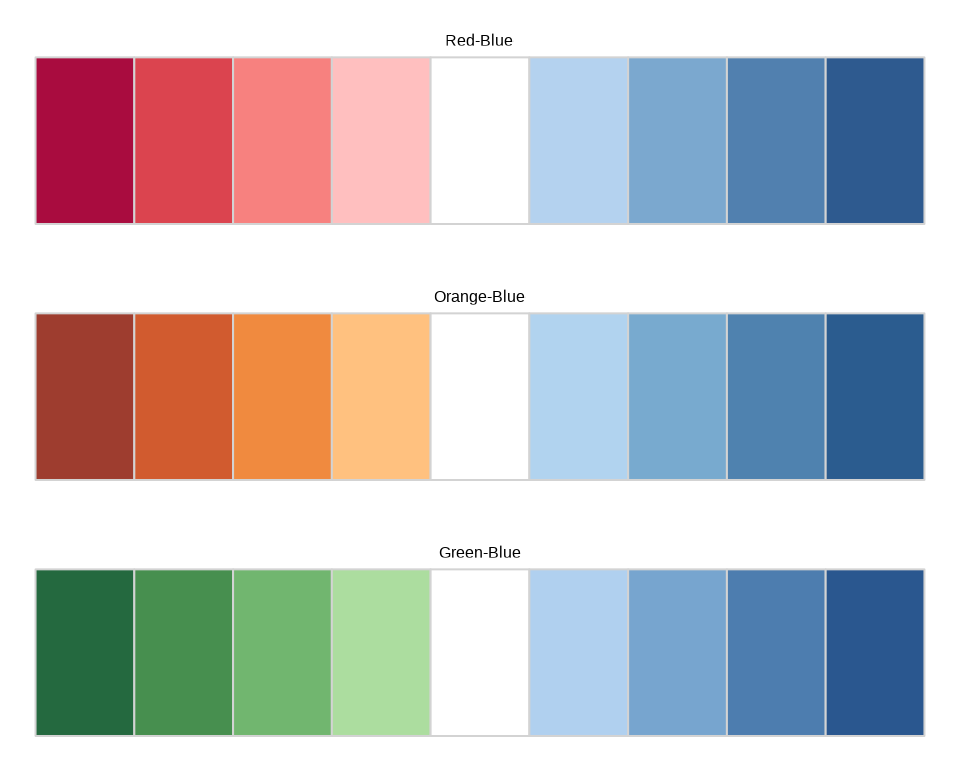
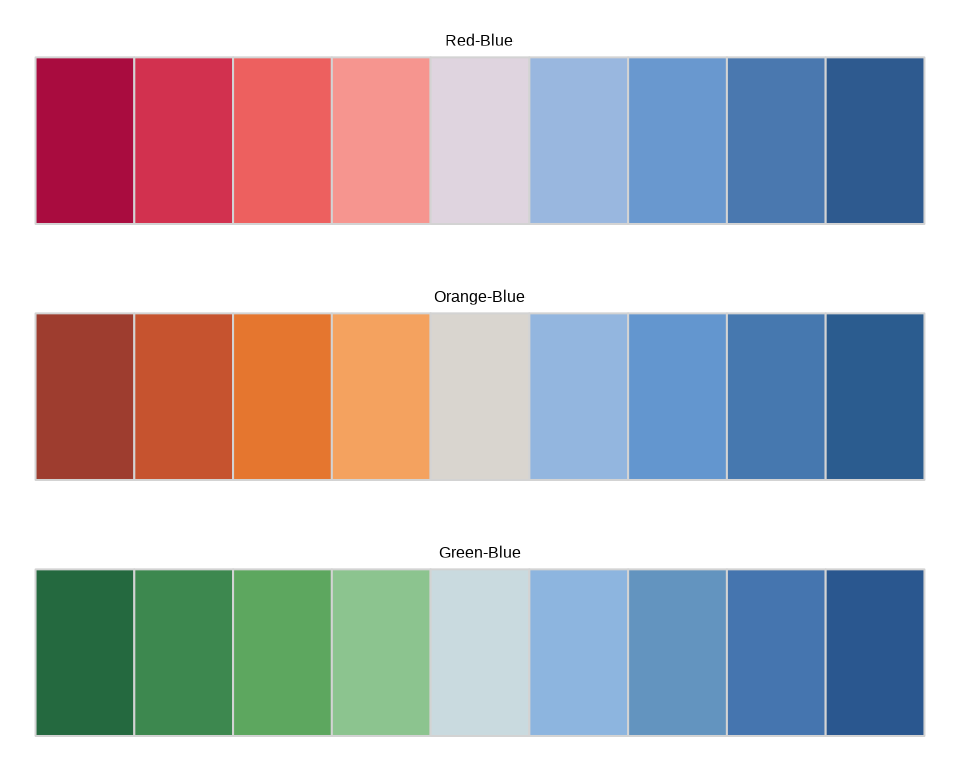
Deploying to gh-pages from @ ipeadata-lab/ipeaplot@d93a55c46ddd7f22966a551ec81cd9d7e5d5897c 🚀

Changed region(s): [[0.2188, 0.0625, 0.6562, 0.3125], [0.3438, 0.7188, 0.6562, 0.9688], [0.3438, 0.4062, 0.6562, 0.625]]

diff --git a/articles/cookbook.html b/articles/cookbook.html
@@ -71,7 +71,7 @@
   <main id="main" class="col-md-9"><div class="page-header">
       <img src="" class="logo" alt=""><h1>Cookbook ipeaplot</h1>
             
-            <h4 data-toc-skip class="date">2023-12-04</h4>
+            <h4 data-toc-skip class="date">2024-03-05</h4>
       
       <small class="dont-index">Source: <a href="https://github.com/ipeadata-lab/ipeaplot/blob/HEAD/vignettes/cookbook.Rmd" class="external-link"><code>vignettes/cookbook.Rmd</code></a></small>
       <div class="d-none name"><code>cookbook.Rmd</code></div>
@@ -102,7 +102,7 @@ Ipea.</p>
 <span><span class="kw"><a href="https://rdrr.io/r/base/library.html" class="external-link">library</a></span><span class="op">(</span><span class="va"><a href="https://ggplot2.tidyverse.org" class="external-link">ggplot2</a></span><span class="op">)</span></span>
 <span><span class="kw"><a href="https://rdrr.io/r/base/library.html" class="external-link">library</a></span><span class="op">(</span><span class="va"><a href="https://dplyr.tidyverse.org" class="external-link">dplyr</a></span><span class="op">)</span></span>
 <span><span class="kw"><a href="https://rdrr.io/r/base/library.html" class="external-link">library</a></span><span class="op">(</span><span class="va"><a href="https://abjur.github.io/abjData/" class="external-link">abjData</a></span><span class="op">)</span></span>
-<span><span class="kw"><a href="https://rdrr.io/r/base/library.html" class="external-link">library</a></span><span class="op">(</span><span class="va"><a href="https://github.com/ipeaGIT/geobr" class="external-link">geobr</a></span><span class="op">)</span></span>
+<span><span class="kw"><a href="https://rdrr.io/r/base/library.html" class="external-link">library</a></span><span class="op">(</span><span class="va"><a href="https://ipeagit.github.io/geobr/" class="external-link">geobr</a></span><span class="op">)</span></span>
 <span><span class="kw"><a href="https://rdrr.io/r/base/library.html" class="external-link">library</a></span><span class="op">(</span><span class="va"><a href="http://had.co.nz/reshape" class="external-link">reshape</a></span><span class="op">)</span></span>
 <span><span class="kw"><a href="https://rdrr.io/r/base/library.html" class="external-link">library</a></span><span class="op">(</span><span class="va"><a href="https://yihui.org/knitr/" class="external-link">knitr</a></span><span class="op">)</span></span></code></pre></div>
 <div class="sourceCode" id="cb2"><pre class="downlit sourceCode r">
@@ -196,11 +196,11 @@ Ipea.</p>
 <span></span>
 <span><span class="co">## Gráfico 8</span></span>
 <span><span class="va">link</span> <span class="op">&lt;-</span> <span class="st">'https://github.com/ipeadata-lab/ipeaplot/files'</span></span>
-<span><span class="va">base_graf8</span> <span class="op">&lt;-</span> <span class="fu">data.table</span><span class="fu">::</span><span class="fu"><a href="https://Rdatatable.gitlab.io/data.table/reference/fread.html" class="external-link">fread</a></span><span class="op">(</span><span class="fu"><a href="https://rdrr.io/r/base/paste.html" class="external-link">paste0</a></span><span class="op">(</span><span class="va">link</span>,<span class="st">'/12239277/dados_grafico9.csv'</span><span class="op">)</span>,</span>
+<span><span class="va">base_graf8</span> <span class="op">&lt;-</span> <span class="fu">data.table</span><span class="fu">::</span><span class="fu"><a href="https://rdatatable.gitlab.io/data.table/reference/fread.html" class="external-link">fread</a></span><span class="op">(</span><span class="fu"><a href="https://rdrr.io/r/base/paste.html" class="external-link">paste0</a></span><span class="op">(</span><span class="va">link</span>,<span class="st">'/12239277/dados_grafico9.csv'</span><span class="op">)</span>,</span>
 <span>                                dec <span class="op">=</span> <span class="st">","</span>, encoding <span class="op">=</span> <span class="st">'Latin-1'</span><span class="op">)</span></span>
 <span></span>
 <span><span class="co">## Gráfico 9</span></span>
-<span><span class="va">base_graf9</span> <span class="op">&lt;-</span> <span class="fu">data.table</span><span class="fu">::</span><span class="fu"><a href="https://Rdatatable.gitlab.io/data.table/reference/fread.html" class="external-link">fread</a></span><span class="op">(</span><span class="fu"><a href="https://rdrr.io/r/base/paste.html" class="external-link">paste0</a></span><span class="op">(</span><span class="va">link</span>,<span class="st">'/12239278/dados_grafico10.csv'</span><span class="op">)</span>,</span>
+<span><span class="va">base_graf9</span> <span class="op">&lt;-</span> <span class="fu">data.table</span><span class="fu">::</span><span class="fu"><a href="https://rdatatable.gitlab.io/data.table/reference/fread.html" class="external-link">fread</a></span><span class="op">(</span><span class="fu"><a href="https://rdrr.io/r/base/paste.html" class="external-link">paste0</a></span><span class="op">(</span><span class="va">link</span>,<span class="st">'/12239278/dados_grafico10.csv'</span><span class="op">)</span>,</span>
 <span>                                 dec <span class="op">=</span> <span class="st">","</span>, encoding <span class="op">=</span> <span class="st">'Latin-1'</span><span class="op">)</span></span>
 <span></span>
 <span><span class="co">## Salvando graficos no formato Rdata</span></span>
@@ -287,7 +287,7 @@ Ipea.</p>
 <span>       title<span class="op">=</span><span class="st">"GRÁFICO 3"</span>,</span>
 <span>       subtitle<span class="op">=</span><span class="st">"Gastos com defesa (Em bilhões de dólares)"</span>,</span>
 <span>       caption <span class="op">=</span> <span class="st">'Fonte: Peter G. Peterson Foundation (2013).\nTradução dos autores.'</span><span class="op">)</span> <span class="op">+</span></span>
-<span>  <span class="fu"><a href="../reference/scale_fill_ipea.html">scale_fill_ipea</a></span><span class="op">(</span>discrete <span class="op">=</span> <span class="cn">T</span><span class="op">)</span> <span class="op">+</span></span>
+<span>  <span class="fu"><a href="../reference/scale_fill_ipea.html">scale_fill_ipea</a></span><span class="op">(</span><span class="op">)</span> <span class="op">+</span></span>
 <span>  <span class="fu"><a href="https://ggplot2.tidyverse.org/reference/geom_text.html" class="external-link">geom_text</a></span><span class="op">(</span> position <span class="op">=</span> <span class="fu"><a href="https://ggplot2.tidyverse.org/reference/position_stack.html" class="external-link">position_stack</a></span><span class="op">(</span>vjust <span class="op">=</span> <span class="fl">0.5</span><span class="op">)</span>, color <span class="op">=</span> <span class="st">'white'</span><span class="op">)</span> <span class="op">+</span></span>
 <span>  <span class="fu"><a href="https://ggplot2.tidyverse.org/reference/geom_text.html" class="external-link">geom_text</a></span><span class="op">(</span>data <span class="op">=</span> <span class="va">temp</span>, <span class="fu"><a href="https://ggplot2.tidyverse.org/reference/aes.html" class="external-link">aes</a></span><span class="op">(</span>y <span class="op">=</span> <span class="va">total</span> ,label <span class="op">=</span> <span class="fu"><a href="https://rdrr.io/r/base/paste.html" class="external-link">paste0</a></span><span class="op">(</span><span class="st">"U$ "</span>,<span class="va">total</span><span class="op">)</span><span class="op">)</span>, vjust <span class="op">=</span> <span class="op">-</span><span class="fl">.5</span><span class="op">)</span> <span class="op">+</span></span>
 <span>  <span class="fu"><a href="../reference/theme_ipea.html">theme_ipea</a></span><span class="op">(</span>legend.position<span class="op">=</span><span class="st">"none"</span>,</span>
@@ -343,7 +343,7 @@ Ipea.</p>
 <span>       caption <span class="op">=</span> <span class="st">'Fonte: World Bank (2014).\nTradução dos autores.\nObs.: Os dados foram coletados no sítio do Banco Mundial.\nDisponível em: &lt;http://goo.gl/IvtZ1a&gt;. Acesso em: 26 set. 2014.'</span><span class="op">)</span> <span class="op">+</span></span>
 <span>  <span class="fu"><a href="../reference/theme_ipea.html">theme_ipea</a></span><span class="op">(</span>x_breaks <span class="op">=</span> <span class="fl">8</span>, y_breaks <span class="op">=</span> <span class="fl">10</span>, legend.position <span class="op">=</span> <span class="st">'bottom'</span>, expand_x_limit <span class="op">=</span> <span class="cn">F</span>,</span>
 <span>             include_x_text_title <span class="op">=</span> <span class="cn">F</span>,include_y_text_title <span class="op">=</span> <span class="cn">F</span><span class="op">)</span> <span class="op">+</span></span>
-<span>  <span class="fu"><a href="../reference/scale_color_ipea.html">scale_color_ipea</a></span><span class="op">(</span>palette_direction <span class="op">=</span> <span class="op">-</span><span class="fl">1</span>, discrete <span class="op">=</span> <span class="cn">T</span><span class="op">)</span> <span class="op">+</span></span>
+<span>  <span class="fu"><a href="../reference/scale_color_ipea.html">scale_color_ipea</a></span><span class="op">(</span>palette_direction <span class="op">=</span> <span class="op">-</span><span class="fl">1</span>, <span class="op">)</span> <span class="op">+</span></span>
 <span>  <span class="fu"><a href="https://ggplot2.tidyverse.org/reference/scale_manual.html" class="external-link">scale_shape_manual</a></span><span class="op">(</span>values <span class="op">=</span> <span class="fu"><a href="https://rdrr.io/r/base/c.html" class="external-link">c</a></span><span class="op">(</span><span class="fl">19</span>, <span class="fl">21</span><span class="op">)</span><span class="op">)</span> <span class="op">+</span></span>
 <span>  <span class="fu"><a href="https://ggplot2.tidyverse.org/reference/scale_manual.html" class="external-link">scale_fill_manual</a></span><span class="op">(</span>values <span class="op">=</span> <span class="fu"><a href="https://rdrr.io/r/base/c.html" class="external-link">c</a></span><span class="op">(</span><span class="cn">NA</span>,<span class="st">"white"</span><span class="op">)</span><span class="op">)</span></span></code></pre></div>
 <p><img src="prints_ipeaplot/grafico5.png" width="100%" style="display: block; margin: auto;"></p>
@@ -399,7 +399,7 @@ Ipea.</p>
 <span>       caption <span class="op">=</span> <span class="st">''</span><span class="op">)</span> <span class="op">+</span></span>
 <span>  <span class="fu"><a href="../reference/theme_ipea.html">theme_ipea</a></span><span class="op">(</span>legend.position <span class="op">=</span> <span class="st">'bottom'</span>,</span>
 <span>             include_x_text_title <span class="op">=</span> <span class="cn">F</span>,include_y_text_title <span class="op">=</span> <span class="cn">F</span><span class="op">)</span> <span class="op">+</span></span>
-<span>  <span class="fu"><a href="../reference/scale_fill_ipea.html">scale_fill_ipea</a></span><span class="op">(</span>discrete <span class="op">=</span> <span class="cn">T</span><span class="op">)</span></span></code></pre></div>
+<span>  <span class="fu"><a href="../reference/scale_fill_ipea.html">scale_fill_ipea</a></span><span class="op">(</span><span class="op">)</span></span></code></pre></div>
 <p><img src="prints_ipeaplot/grafico7.png" width="100%" style="display: block; margin: auto;"></p>
 </div>
 </div>
@@ -438,7 +438,7 @@ Ipea.</p>
 <span>  <span class="fu"><a href="https://ggplot2.tidyverse.org/reference/geom_path.html" class="external-link">geom_line</a></span><span class="op">(</span>data<span class="op">=</span><span class="va">base_graf8_aux</span>, <span class="fu"><a href="https://ggplot2.tidyverse.org/reference/aes.html" class="external-link">aes</a></span><span class="op">(</span>x<span class="op">=</span><span class="va">n</span> ,y<span class="op">=</span><span class="va">`crescimento do PIB (ppc)_perct`</span>, group <span class="op">=</span> <span class="fl">1</span><span class="op">)</span>,</span>
 <span>            color <span class="op">=</span> <span class="st">'gray'</span><span class="op">)</span> <span class="op">+</span></span>
 <span>  <span class="fu"><a href="https://ggplot2.tidyverse.org/reference/scale_continuous.html" class="external-link">scale_x_continuous</a></span><span class="op">(</span>breaks <span class="op">=</span> <span class="fl">1</span><span class="op">:</span><span class="fu"><a href="https://rdrr.io/r/base/Extremes.html" class="external-link">max</a></span><span class="op">(</span><span class="va">base_graf8</span><span class="op">$</span><span class="va">n</span><span class="op">)</span>, labels <span class="op">=</span> <span class="va">label</span><span class="op">)</span> <span class="op">+</span></span>
-<span>  <span class="fu"><a href="../reference/scale_fill_ipea.html">scale_fill_ipea</a></span><span class="op">(</span>discrete <span class="op">=</span> <span class="cn">T</span><span class="op">)</span> <span class="op">+</span></span>
+<span>  <span class="fu"><a href="../reference/scale_fill_ipea.html">scale_fill_ipea</a></span><span class="op">(</span><span class="op">)</span> <span class="op">+</span></span>
 <span>  <span class="fu"><a href="../reference/theme_ipea.html">theme_ipea</a></span><span class="op">(</span>legend.position <span class="op">=</span> <span class="st">'bottom'</span>, x_text_angle <span class="op">=</span> <span class="fl">90</span>, include_ticks <span class="op">=</span> <span class="cn">F</span>,</span>
 <span>             include_x_text_title <span class="op">=</span> <span class="cn">F</span>,include_y_text_title <span class="op">=</span> <span class="cn">F</span><span class="op">)</span> <span class="op">+</span></span>
 <span>  <span class="fu"><a href="https://ggplot2.tidyverse.org/reference/geom_rug.html" class="external-link">geom_rug</a></span><span class="op">(</span>data<span class="op">=</span><span class="va">base_graf8</span>, <span class="fu"><a href="https://ggplot2.tidyverse.org/reference/aes.html" class="external-link">aes</a></span><span class="op">(</span>x <span class="op">=</span> <span class="va">n</span><span class="op">-</span><span class="fl">0.5</span><span class="op">)</span>,</span>

diff --git a/articles/intro_ipeaplot.html b/articles/intro_ipeaplot.html
@@ -71,7 +71,7 @@
   <main id="main" class="col-md-9"><div class="page-header">
       <img src="" class="logo" alt=""><h1>Introdução ao ipeaplot</h1>
             
-            <h4 data-toc-skip class="date">2023-12-04</h4>
+            <h4 data-toc-skip class="date">2024-03-05</h4>
       
       <small class="dont-index">Source: <a href="https://github.com/ipeadata-lab/ipeaplot/blob/HEAD/vignettes/intro_ipeaplot.Rmd" class="external-link"><code>vignettes/intro_ipeaplot.Rmd</code></a></small>
       <div class="d-none name"><code>intro_ipeaplot.Rmd</code></div>
@@ -130,7 +130,7 @@ seguir, vamos utilizar os dados <code>mtcars</code> do R.</p>
 <span><span class="kw"><a href="https://rdrr.io/r/base/library.html" class="external-link">library</a></span><span class="op">(</span><span class="va"><a href="https://ggplot2.tidyverse.org" class="external-link">ggplot2</a></span><span class="op">)</span></span>
 <span><span class="kw"><a href="https://rdrr.io/r/base/library.html" class="external-link">library</a></span><span class="op">(</span><span class="va"><a href="https://dplyr.tidyverse.org" class="external-link">dplyr</a></span><span class="op">)</span></span>
 <span><span class="kw"><a href="https://rdrr.io/r/base/library.html" class="external-link">library</a></span><span class="op">(</span><span class="va"><a href="https://abjur.github.io/abjData/" class="external-link">abjData</a></span><span class="op">)</span></span>
-<span><span class="kw"><a href="https://rdrr.io/r/base/library.html" class="external-link">library</a></span><span class="op">(</span><span class="va"><a href="https://github.com/ipeaGIT/geobr" class="external-link">geobr</a></span><span class="op">)</span></span>
+<span><span class="kw"><a href="https://rdrr.io/r/base/library.html" class="external-link">library</a></span><span class="op">(</span><span class="va"><a href="https://ipeagit.github.io/geobr/" class="external-link">geobr</a></span><span class="op">)</span></span>
 <span><span class="kw"><a href="https://rdrr.io/r/base/library.html" class="external-link">library</a></span><span class="op">(</span><span class="va"><a href="https://patchwork.data-imaginist.com" class="external-link">patchwork</a></span><span class="op">)</span></span>
 <span></span>
 <span><span class="co"># Load mtcars dataset</span></span>
@@ -188,15 +188,14 @@ construção da sua figura com <code>ggplot2</code>:</p>
 <p>Por padrão, as funções <code><a href="../reference/scale_color_ipea.html">scale_color_ipea()</a></code> e
 <code><a href="../reference/scale_fill_ipea.html">scale_fill_ipea()</a></code> geram escalas de cores para variáveis
 <strong>contínuas</strong>. Para utilizar uma escala de core para
-variáveis discretas, basta passar o parâmetro
-<code>discrete = TRUE</code>.</p>
+variáveis discretas, basta passar o parâmetro <code>RUE</code>.</p>
 <div class="sourceCode" id="cb6"><pre class="downlit sourceCode r">
 <code class="sourceCode R"><span><span class="va">graph</span> <span class="op">&lt;-</span> <span class="fu"><a href="https://ggplot2.tidyverse.org/reference/ggplot.html" class="external-link">ggplot</a></span><span class="op">(</span><span class="op">)</span> <span class="op">+</span></span>
 <span>  <span class="fu"><a href="https://ggplot2.tidyverse.org/reference/geom_point.html" class="external-link">geom_point</a></span><span class="op">(</span>data <span class="op">=</span> <span class="va">mtcars</span>, <span class="fu"><a href="https://ggplot2.tidyverse.org/reference/aes.html" class="external-link">aes</a></span><span class="op">(</span>x <span class="op">=</span> <span class="va">hp</span> , y <span class="op">=</span> <span class="va">mpg</span>, color <span class="op">=</span> <span class="fu"><a href="https://rdrr.io/r/base/factor.html" class="external-link">factor</a></span><span class="op">(</span><span class="va">cyl</span><span class="op">)</span><span class="op">)</span><span class="op">)</span> <span class="op">+</span></span>
 <span>  <span class="fu"><a href="https://ggplot2.tidyverse.org/reference/labs.html" class="external-link">labs</a></span><span class="op">(</span>y<span class="op">=</span><span class="st">'Consumo de Combustível\n(milhas por galão)'</span>,</span>
 <span>       x <span class="op">=</span><span class="st">'Potência (Número de cavalos)'</span>,</span>
 <span>       color<span class="op">=</span><span class="st">'Cilindradas'</span><span class="op">)</span> <span class="op">+</span></span>
-<span>  <span class="fu"><a href="../reference/scale_color_ipea.html">scale_color_ipea</a></span><span class="op">(</span>palette <span class="op">=</span> <span class="st">"Orange"</span>, discrete <span class="op">=</span> <span class="cn">TRUE</span> <span class="op">)</span> <span class="op">+</span></span>
+<span>  <span class="fu"><a href="../reference/scale_color_ipea.html">scale_color_ipea</a></span><span class="op">(</span>palette <span class="op">=</span> <span class="st">"Orange"</span>, <span class="va">RUE</span> <span class="op">)</span> <span class="op">+</span></span>
 <span>  <span class="fu"><a href="../reference/theme_ipea.html">theme_ipea</a></span><span class="op">(</span><span class="op">)</span></span></code></pre></div>
 <p><img src="prints_intro_ipeaplot/grafico4.png" width="100%" style="display: block; margin: auto;"></p>
 <p>Além de selecionar a paleta de cores, as funções
@@ -245,7 +244,7 @@ em cada região do país a cada anos, e em seguida geramos o gráfico:</p>
 <span><span class="co"># plot</span></span>
 <span><span class="fu"><a href="https://ggplot2.tidyverse.org/reference/ggplot.html" class="external-link">ggplot</a></span><span class="op">(</span><span class="op">)</span> <span class="op">+</span></span>
 <span>  <span class="fu"><a href="https://ggplot2.tidyverse.org/reference/geom_path.html" class="external-link">geom_line</a></span><span class="op">(</span>data <span class="op">=</span> <span class="va">df_fig1</span>, <span class="fu"><a href="https://ggplot2.tidyverse.org/reference/aes.html" class="external-link">aes</a></span><span class="op">(</span>x<span class="op">=</span><span class="va">ano</span>, y<span class="op">=</span><span class="va">t_lixo</span>, color<span class="op">=</span> <span class="va">regiao</span><span class="op">)</span><span class="op">)</span> <span class="op">+</span></span>
-<span>  <span class="fu"><a href="../reference/scale_color_ipea.html">scale_color_ipea</a></span><span class="op">(</span>discrete <span class="op">=</span> <span class="cn">T</span>, palette <span class="op">=</span> <span class="st">'Orange'</span><span class="op">)</span> <span class="op">+</span></span>
+<span>  <span class="fu"><a href="../reference/scale_color_ipea.html">scale_color_ipea</a></span><span class="op">(</span>palette <span class="op">=</span> <span class="st">'Orange'</span><span class="op">)</span> <span class="op">+</span></span>
 <span>  <span class="fu"><a href="https://ggplot2.tidyverse.org/reference/labs.html" class="external-link">labs</a></span><span class="op">(</span>title <span class="op">=</span> <span class="st">'Proporção da população com coleta de lixo'</span>, color<span class="op">=</span><span class="st">'Região'</span><span class="op">)</span> <span class="op">+</span></span>
 <span>  <span class="fu"><a href="https://ggplot2.tidyverse.org/reference/labs.html" class="external-link">ylab</a></span><span class="op">(</span><span class="st">'Proporção em %'</span><span class="op">)</span> <span class="op">+</span></span>
 <span>  <span class="fu"><a href="https://ggplot2.tidyverse.org/reference/labs.html" class="external-link">xlab</a></span><span class="op">(</span><span class="st">'Ano'</span><span class="op">)</span> <span class="op">+</span></span>
@@ -256,7 +255,7 @@ colunas:</p>
 <div class="sourceCode" id="cb9"><pre class="downlit sourceCode r">
 <code class="sourceCode R"><span><span class="va">graph</span> <span class="op">&lt;-</span> <span class="fu"><a href="https://ggplot2.tidyverse.org/reference/ggplot.html" class="external-link">ggplot</a></span><span class="op">(</span><span class="op">)</span> <span class="op">+</span> </span>
 <span>  <span class="fu"><a href="https://ggplot2.tidyverse.org/reference/geom_bar.html" class="external-link">geom_col</a></span><span class="op">(</span>data <span class="op">=</span> <span class="va">df_fig1</span>, <span class="fu"><a href="https://ggplot2.tidyverse.org/reference/aes.html" class="external-link">aes</a></span><span class="op">(</span>x<span class="op">=</span><span class="va">ano</span>, y<span class="op">=</span><span class="va">t_lixo</span>, fill<span class="op">=</span> <span class="fu"><a href="https://rdrr.io/r/base/factor.html" class="external-link">factor</a></span><span class="op">(</span><span class="va">ano</span><span class="op">)</span><span class="op">)</span><span class="op">)</span> <span class="op">+</span></span>
-<span>  <span class="fu"><a href="../reference/scale_fill_ipea.html">scale_fill_ipea</a></span><span class="op">(</span>discrete <span class="op">=</span> <span class="cn">T</span>, palette <span class="op">=</span> <span class="st">'Green'</span><span class="op">)</span> <span class="op">+</span></span>
+<span>  <span class="fu"><a href="../reference/scale_fill_ipea.html">scale_fill_ipea</a></span><span class="op">(</span>palette <span class="op">=</span> <span class="st">'Green'</span><span class="op">)</span> <span class="op">+</span></span>
 <span>  <span class="fu"><a href="https://ggplot2.tidyverse.org/reference/labs.html" class="external-link">labs</a></span><span class="op">(</span>title <span class="op">=</span> <span class="st">'Proporção da população com coleta de lixo'</span>, fill<span class="op">=</span><span class="st">'Ano'</span><span class="op">)</span> <span class="op">+</span></span>
 <span>  <span class="fu"><a href="https://ggplot2.tidyverse.org/reference/labs.html" class="external-link">ylab</a></span><span class="op">(</span><span class="st">'Proporção em %'</span><span class="op">)</span> <span class="op">+</span></span>
 <span>  <span class="fu"><a href="https://ggplot2.tidyverse.org/reference/labs.html" class="external-link">xlab</a></span><span class="op">(</span><span class="st">'Ano'</span><span class="op">)</span> <span class="op">+</span></span>
@@ -274,15 +273,15 @@ ser feito com o pacote <a href="https://ipeagit.github.io/geobr/" class="externa
 Ipea. Para baixar esses dados, basta rodar:</p>
 <div class="sourceCode" id="cb10"><pre class="downlit sourceCode r">
 <code class="sourceCode R"><span><span class="co"># Load municipality and state spatial data</span></span>
-<span><span class="va">mun</span> <span class="op">&lt;-</span> <span class="fu">geobr</span><span class="fu">::</span><span class="fu"><a href="https://rdrr.io/pkg/geobr/man/read_municipality.html" class="external-link">read_municipality</a></span><span class="op">(</span>year <span class="op">=</span> <span class="fl">2010</span><span class="op">)</span></span>
-<span><span class="va">uf</span>  <span class="op">&lt;-</span> <span class="fu">geobr</span><span class="fu">::</span><span class="fu"><a href="https://rdrr.io/pkg/geobr/man/read_state.html" class="external-link">read_state</a></span><span class="op">(</span>year <span class="op">=</span> <span class="fl">2010</span><span class="op">)</span></span></code></pre></div>
+<span><span class="va">mun</span> <span class="op">&lt;-</span> <span class="fu">geobr</span><span class="fu">::</span><span class="fu"><a href="https://ipeagit.github.io/geobr/reference/read_municipality.html" class="external-link">read_municipality</a></span><span class="op">(</span>year <span class="op">=</span> <span class="fl">2010</span><span class="op">)</span></span>
+<span><span class="va">uf</span>  <span class="op">&lt;-</span> <span class="fu">geobr</span><span class="fu">::</span><span class="fu"><a href="https://ipeagit.github.io/geobr/reference/read_state.html" class="external-link">read_state</a></span><span class="op">(</span>year <span class="op">=</span> <span class="fl">2010</span><span class="op">)</span></span></code></pre></div>
 <p>Agora nós precisamos fazer um <em>merge</em> dos dados espaciais e
 dos dados com as estimativas de anos de estudo. A variável com os
 códigos do municípios é a nossa chave para unir as duas bases.</p>
 <div class="sourceCode" id="cb11"><pre class="downlit sourceCode r">
 <code class="sourceCode R"><span><span class="co"># Load municipality and state spatial data</span></span>
-<span><span class="va">mun</span> <span class="op">=</span> <span class="fu"><a href="https://rdrr.io/pkg/geobr/man/read_municipality.html" class="external-link">read_municipality</a></span><span class="op">(</span><span class="op">)</span></span>
-<span><span class="va">uf</span>  <span class="op">=</span> <span class="fu"><a href="https://rdrr.io/pkg/geobr/man/read_state.html" class="external-link">read_state</a></span><span class="op">(</span><span class="op">)</span></span>
+<span><span class="va">mun</span> <span class="op">=</span> <span class="fu"><a href="https://ipeagit.github.io/geobr/reference/read_municipality.html" class="external-link">read_municipality</a></span><span class="op">(</span><span class="op">)</span></span>
+<span><span class="va">uf</span>  <span class="op">=</span> <span class="fu"><a href="https://ipeagit.github.io/geobr/reference/read_state.html" class="external-link">read_state</a></span><span class="op">(</span><span class="op">)</span></span>
 <span></span>
 <span><span class="co"># Subset and select specific columns from the 'pnud_muni' dataset</span></span>
 <span><span class="va">df_escola</span> <span class="op">&lt;-</span> <span class="va">df</span> <span class="op">|&gt;</span></span>

diff --git a/reference/scale_fill_ipea.html b/reference/scale_fill_ipea.html
@@ -62,30 +62,26 @@ Economic Research (IPEA)</p>
     <div class="section level2">
     <h2 id="ref-usage">Usage<a class="anchor" aria-label="anchor" href="#ref-usage"></a></h2>
     <div class="sourceCode"><pre class="sourceCode r"><code><span><span class="fu">scale_fill_ipea</span><span class="op">(</span></span>
-<span>  discrete <span class="op">=</span> <span class="cn">F</span>,</span>
-<span>  palette <span class="op">=</span> <span class="fu"><a href="https://rdrr.io/r/base/c.html" class="external-link">c</a></span><span class="op">(</span><span class="st">"Blue"</span>, <span class="st">"Green"</span>, <span class="st">"Orange"</span>, <span class="st">"Pink"</span>, <span class="st">"Green-Blue"</span>, <span class="st">"Red-Blue"</span>, <span class="st">"Green-Blue"</span>,</span>
-<span>    <span class="st">"Orange-Blue"</span>, <span class="st">"Viridis"</span>, <span class="st">"Inferno"</span>, <span class="st">"Magma"</span>, <span class="st">"Plasma"</span>, <span class="st">"Cividis"</span><span class="op">)</span>,</span>
+<span>  palette <span class="op">=</span> <span class="fu"><a href="https://rdrr.io/r/base/c.html" class="external-link">c</a></span><span class="op">(</span><span class="st">"Blue"</span>, <span class="st">"Green"</span>, <span class="st">"Orange"</span>, <span class="st">"Pink"</span>, <span class="st">"Green-Blue"</span>, <span class="st">"Green-Blue-White"</span>,</span>
+<span>    <span class="st">"Red-Blue"</span>, <span class="st">"Red-Blue-White"</span>, <span class="st">"Orange-Blue"</span>, <span class="st">"Orange-Blue-White"</span>, <span class="st">"Viridis"</span>,</span>
+<span>    <span class="st">"Inferno"</span>, <span class="st">"Magma"</span>, <span class="st">"Plasma"</span>, <span class="st">"Cividis"</span><span class="op">)</span>,</span>
 <span>  palette_direction <span class="op">=</span> <span class="fl">1</span>,</span>
 <span>  decimal.mark <span class="op">=</span> <span class="st">","</span>,</span>
-<span>  <span class="va">barheight</span>,</span>
-<span>  <span class="va">barwidth</span>,</span>
-<span>  <span class="va">title.hjust</span>,</span>
-<span>  <span class="va">label.hjust</span>,</span>
+<span>  barheight <span class="op">=</span> <span class="cn">NULL</span>,</span>
+<span>  barwidth <span class="op">=</span> <span class="cn">NULL</span>,</span>
+<span>  title.hjust <span class="op">=</span> <span class="cn">NULL</span>,</span>
+<span>  label.hjust <span class="op">=</span> <span class="cn">NULL</span>,</span>
 <span>  <span class="va">...</span></span>
 <span><span class="op">)</span></span></code></pre></div>
     </div>
 
     <div class="section level2">
     <h2 id="arguments">Arguments<a class="anchor" aria-label="anchor" href="#arguments"></a></h2>
-    <dl><dt>discrete</dt>
-<dd><p>A logical value indicating whether to use discrete or
-continuous scale bar. The default value is continuous.</p></dd>
-
-
-<dt>palette</dt>
+    <dl><dt>palette</dt>
 <dd><p>A character vector specifying the available palette for the
-fill palette. The default palette are <code>"Blue"</code>, but we can also change
-to <code>'Green'</code>, <code>'Orange'</code>, <code>'Pink'</code>, <code>'Red-Blue'</code>, <code>'Orange-Blue'</code>,<code>'Green-Blue'</code>,
+color palette. The default palette are <code>"Blue"</code>, but we can also change
+to <code>'Green'</code>, <code>'Orange'</code>, <code>'Pink'</code>, <code>'Red-Blue'</code>, <code>'Orange-Blue'</code>, <code>'Green-Blue'</code>,
+<code>'Red-Blue-White'</code>, <code>'Orange-Blue-White'</code>, <code>'Green-Blue-White'</code>,
 <code>'Viridis'</code>, <code>'Inferno'</code>, <code>'Magma'</code>, <code>'Plasma'</code>, <code>'Cividis'</code>.</p></dd>
 
 

diff --git a/reference/scale_color_ipea.html b/reference/scale_color_ipea.html
@@ -62,30 +62,26 @@ Research - Ipea.</p>
     <div class="section level2">
     <h2 id="ref-usage">Usage<a class="anchor" aria-label="anchor" href="#ref-usage"></a></h2>
     <div class="sourceCode"><pre class="sourceCode r"><code><span><span class="fu">scale_color_ipea</span><span class="op">(</span></span>
-<span>  discrete <span class="op">=</span> <span class="cn">F</span>,</span>
-<span>  palette <span class="op">=</span> <span class="fu"><a href="https://rdrr.io/r/base/c.html" class="external-link">c</a></span><span class="op">(</span><span class="st">"Blue"</span>, <span class="st">"Green"</span>, <span class="st">"Orange"</span>, <span class="st">"Pink"</span>, <span class="st">"Green-Blue"</span>, <span class="st">"Red-Blue"</span>, <span class="st">"Green-Blue"</span>,</span>
-<span>    <span class="st">"Orange-Blue"</span>, <span class="st">"Viridis"</span>, <span class="st">"Inferno"</span>, <span class="st">"Magma"</span>, <span class="st">"Plasma"</span>, <span class="st">"Cividis"</span><span class="op">)</span>,</span>
+<span>  palette <span class="op">=</span> <span class="fu"><a href="https://rdrr.io/r/base/c.html" class="external-link">c</a></span><span class="op">(</span><span class="st">"Blue"</span>, <span class="st">"Green"</span>, <span class="st">"Orange"</span>, <span class="st">"Pink"</span>, <span class="st">"Green-Blue"</span>, <span class="st">"Green-Blue-White"</span>,</span>
+<span>    <span class="st">"Red-Blue"</span>, <span class="st">"Red-Blue-White"</span>, <span class="st">"Orange-Blue"</span>, <span class="st">"Orange-Blue-White"</span>, <span class="st">"Viridis"</span>,</span>
+<span>    <span class="st">"Inferno"</span>, <span class="st">"Magma"</span>, <span class="st">"Plasma"</span>, <span class="st">"Cividis"</span><span class="op">)</span>,</span>
 <span>  palette_direction <span class="op">=</span> <span class="fl">1</span>,</span>
 <span>  decimal.mark <span class="op">=</span> <span class="st">","</span>,</span>
-<span>  <span class="va">barheight</span>,</span>
-<span>  <span class="va">barwidth</span>,</span>
-<span>  <span class="va">title.hjust</span>,</span>
-<span>  <span class="va">label.hjust</span>,</span>
+<span>  barheight <span class="op">=</span> <span class="cn">NULL</span>,</span>
+<span>  barwidth <span class="op">=</span> <span class="cn">NULL</span>,</span>
+<span>  title.hjust <span class="op">=</span> <span class="cn">NULL</span>,</span>
+<span>  label.hjust <span class="op">=</span> <span class="cn">NULL</span>,</span>
 <span>  <span class="va">...</span></span>
 <span><span class="op">)</span></span></code></pre></div>
     </div>
 
     <div class="section level2">
     <h2 id="arguments">Arguments<a class="anchor" aria-label="anchor" href="#arguments"></a></h2>
-    <dl><dt>discrete</dt>
-<dd><p>A logical value indicating whether to use discrete or
-continuous scale bar. The default value is continuous.</p></dd>
-
-
-<dt>palette</dt>
+    <dl><dt>palette</dt>
 <dd><p>A character vector specifying the available palette for the
 color palette. The default palette are <code>"Blue"</code>, but we can also change
 to <code>'Green'</code>, <code>'Orange'</code>, <code>'Pink'</code>, <code>'Red-Blue'</code>, <code>'Orange-Blue'</code>, <code>'Green-Blue'</code>,
+<code>'Red-Blue-White'</code>, <code>'Orange-Blue-White'</code>, <code>'Green-Blue-White'</code>,
 <code>'Viridis'</code>, <code>'Inferno'</code>, <code>'Magma'</code>, <code>'Plasma'</code>, <code>'Cividis'</code>.</p></dd>
 
 

diff --git a/index.html b/index.html
@@ -104,8 +104,8 @@
 <span><span class="kw"><a href="https://rdrr.io/r/base/library.html" class="external-link">library</a></span><span class="op">(</span><span class="va"><a href="https://ggplot2.tidyverse.org" class="external-link">ggplot2</a></span><span class="op">)</span></span></code></pre>
 <p>No painel abaixo, à direita, temos a representação de um gráfico no formato padrão do <em>ggplot2</em>. Já à esquerda, destacamos o resultado obtido após a aplicação de linhas de código com as funções theme_ipea() e scale_color_ipea().</p>
 <pre><code><span><span class="co"># Figura ggplot original</span></span>
-<span><span class="va">fig_raw</span> <span class="op">&lt;-</span> <span class="fu"><a href="https://ggplot2.tidyverse.org/reference/ggplot.html" class="external-link">ggplot</a></span><span class="op">(</span><span class="op">)</span> <span class="op">+</span></span>
-<span>              <span class="fu"><a href="https://ggplot2.tidyverse.org/reference/geom_point.html" class="external-link">geom_point</a></span><span class="op">(</span>data <span class="op">=</span> <span class="va">mtcars</span>, <span class="fu"><a href="https://ggplot2.tidyverse.org/reference/aes.html" class="external-link">aes</a></span><span class="op">(</span>x <span class="op">=</span> <span class="va">hp</span> , y <span class="op">=</span> <span class="va">mpg</span>, color <span class="op">=</span> <span class="va">cyl</span><span class="op">)</span><span class="op">)</span> <span class="op">+</span></span>
+<span><span class="va">fig_raw</span> <span class="op">&lt;-</span> <span class="fu"><a href="https://ggplot2.tidyverse.org/reference/ggplot.html" class="external-link">ggplot</a></span><span class="op">(</span>data <span class="op">=</span> <span class="va">mtcars</span>, <span class="fu"><a href="https://ggplot2.tidyverse.org/reference/aes.html" class="external-link">aes</a></span><span class="op">(</span>x <span class="op">=</span> <span class="va">hp</span> , y <span class="op">=</span> <span class="va">mpg</span>, color <span class="op">=</span> <span class="va">cyl</span><span class="op">)</span><span class="op">)</span> <span class="op">+</span></span>
+<span>              <span class="fu"><a href="https://ggplot2.tidyverse.org/reference/geom_point.html" class="external-link">geom_point</a></span><span class="op">(</span><span class="op">)</span> <span class="op">+</span></span>
 <span>              <span class="fu"><a href="https://ggplot2.tidyverse.org/reference/labs.html" class="external-link">labs</a></span><span class="op">(</span>y<span class="op">=</span><span class="st">'Consumo de Combustível'</span>,</span>
 <span>                   x <span class="op">=</span><span class="st">'Potência (Número de cavalos)'</span>,</span>
 <span>                   color<span class="op">=</span><span class="st">'Cilindradas'</span><span class="op">)</span></span>

diff --git a/reference/ipea_palette.html b/reference/ipea_palette.html
@@ -59,8 +59,9 @@ along the selected color map.</p>
     <div class="section level2">
     <h2 id="ref-usage">Usage<a class="anchor" aria-label="anchor" href="#ref-usage"></a></h2>
     <div class="sourceCode"><pre class="sourceCode r"><code><span><span class="fu">ipea_palette</span><span class="op">(</span></span>
-<span>  palette <span class="op">=</span> <span class="fu"><a href="https://rdrr.io/r/base/c.html" class="external-link">c</a></span><span class="op">(</span><span class="st">"Blue"</span>, <span class="st">"Green"</span>, <span class="st">"Orange"</span>, <span class="st">"Pink"</span>, <span class="st">"Green-Blue"</span>, <span class="st">"Red-Blue"</span>, <span class="st">"Orange-Blue"</span>,</span>
-<span>    <span class="st">"Viridis"</span>, <span class="st">"Inferno"</span>, <span class="st">"Magma"</span>, <span class="st">"Plasma"</span>, <span class="st">"Cividis"</span><span class="op">)</span>,</span>
+<span>  palette <span class="op">=</span> <span class="fu"><a href="https://rdrr.io/r/base/c.html" class="external-link">c</a></span><span class="op">(</span><span class="st">"Blue"</span>, <span class="st">"Green"</span>, <span class="st">"Orange"</span>, <span class="st">"Pink"</span>, <span class="st">"Green-Blue"</span>, <span class="st">"Green-Blue-White"</span>,</span>
+<span>    <span class="st">"Red-Blue"</span>, <span class="st">"Red-Blue-White"</span>, <span class="st">"Orange-Blue"</span>, <span class="st">"Orange-Blue-White"</span>, <span class="st">"Viridis"</span>,</span>
+<span>    <span class="st">"Inferno"</span>, <span class="st">"Magma"</span>, <span class="st">"Plasma"</span>, <span class="st">"Cividis"</span><span class="op">)</span>,</span>
 <span>  <span class="va">n</span>,</span>
 <span>  alpha <span class="op">=</span> <span class="fl">1</span>,</span>
 <span>  begin <span class="op">=</span> <span class="fl">0</span>,</span>
@@ -80,6 +81,9 @@ These options are available:</p><ul><li><p>'Blue'</p></li>
 <li><p>'Red-Blue'</p></li>
 <li><p>'Orange-Blue'</p></li>
 <li><p>'Green-Blue'</p></li>
+<li><p>'Red-Blue-White'</p></li>
+<li><p>'Orange-Blue-White'</p></li>
+<li><p>'Green-Blue-White'</p></li>
 <li><p>'Viridis'</p></li>
 <li><p>'Inferno'</p></li>
 <li><p>'Magma'</p></li>

diff --git a/reference/ipea_pal.html b/reference/ipea_pal.html
@@ -56,8 +56,9 @@
     <div class="section level2">
     <h2 id="ref-usage">Usage<a class="anchor" aria-label="anchor" href="#ref-usage"></a></h2>
     <div class="sourceCode"><pre class="sourceCode r"><code><span><span class="fu">ipea_pal</span><span class="op">(</span></span>
-<span>  palette <span class="op">=</span> <span class="fu"><a href="https://rdrr.io/r/base/c.html" class="external-link">c</a></span><span class="op">(</span><span class="st">"Blue"</span>, <span class="st">"Green"</span>, <span class="st">"Orange"</span>, <span class="st">"Pink"</span>, <span class="st">"Green-Blue"</span>, <span class="st">"Red-Blue"</span>, <span class="st">"Orange-Blue"</span>,</span>
-<span>    <span class="st">"Viridis"</span>, <span class="st">"Inferno"</span>, <span class="st">"Magma"</span>, <span class="st">"Plasma"</span>, <span class="st">"Cividis"</span><span class="op">)</span>,</span>
+<span>  palette <span class="op">=</span> <span class="fu"><a href="https://rdrr.io/r/base/c.html" class="external-link">c</a></span><span class="op">(</span><span class="st">"Blue"</span>, <span class="st">"Green"</span>, <span class="st">"Orange"</span>, <span class="st">"Pink"</span>, <span class="st">"Green-Blue"</span>, <span class="st">"Green-Blue-White"</span>,</span>
+<span>    <span class="st">"Red-Blue"</span>, <span class="st">"Red-Blue-White"</span>, <span class="st">"Orange-Blue"</span>, <span class="st">"Orange-Blue-White"</span>, <span class="st">"Viridis"</span>,</span>
+<span>    <span class="st">"Inferno"</span>, <span class="st">"Magma"</span>, <span class="st">"Plasma"</span>, <span class="st">"Cividis"</span><span class="op">)</span>,</span>
 <span>  alpha <span class="op">=</span> <span class="fl">1</span>,</span>
 <span>  begin <span class="op">=</span> <span class="fl">0</span>,</span>
 <span>  end <span class="op">=</span> <span class="fl">1</span>,</span>

diff --git a/authors.html b/authors.html
@@ -80,14 +80,14 @@
       <h2 id="citation">Citation</h2>
       <p><small class="dont-index">Source: <a href="https://github.com/ipeadata-lab/ipeaplot/blob/HEAD/DESCRIPTION" class="external-link"><code>DESCRIPTION</code></a></small></p>
 
-      <p>Jorge P, Ferreira P, Lima D, Coelho G, Pereira R, Mation L (2023).
+      <p>Jorge P, Ferreira P, Lima D, Coelho G, Pereira R, Mation L (2024).
 <em>ipeaplot: Add Ipea Editorial Standards to 'ggplot2' Graphics</em>.
 R package version 0.0.1, <a href="https://github.com/ipeadata-lab/ipeaplot" class="external-link">https://github.com/ipeadata-lab/ipeaplot</a>. 
 </p>
       <pre>@Manual{,
   title = {ipeaplot: Add Ipea Editorial Standards to 'ggplot2' Graphics},
   author = {Pedro Jorge and Pedro Cavalcanti Gonçalves Ferreira and Daniel Lima and Gustavo Coelho and Rafael H. M. Pereira and Lucas Mation},
-  year = {2023},
+  year = {2024},
   note = {R package version 0.0.1},
   url = {https://github.com/ipeadata-lab/ipeaplot},
 }</pre>

diff --git a/reference/theme_ipea.html b/reference/theme_ipea.html
@@ -62,7 +62,7 @@ function includes standardized formatting of options for axis lines, text,</p>
     <div class="section level2">
     <h2 id="ref-usage">Usage<a class="anchor" aria-label="anchor" href="#ref-usage"></a></h2>
     <div class="sourceCode"><pre class="sourceCode r"><code><span><span class="fu">theme_ipea</span><span class="op">(</span></span>
-<span>  axis_lines <span class="op">=</span> <span class="st">"half"</span>,</span>
+<span>  axis_lines <span class="op">=</span> <span class="st">"full"</span>,</span>
 <span>  axis_values <span class="op">=</span> <span class="cn">T</span>,</span>
 <span>  legend.position <span class="op">=</span> <span class="st">"right"</span>,</span>
 <span>  grid.adjust <span class="op">=</span> <span class="st">"horizontal"</span>,</span>
